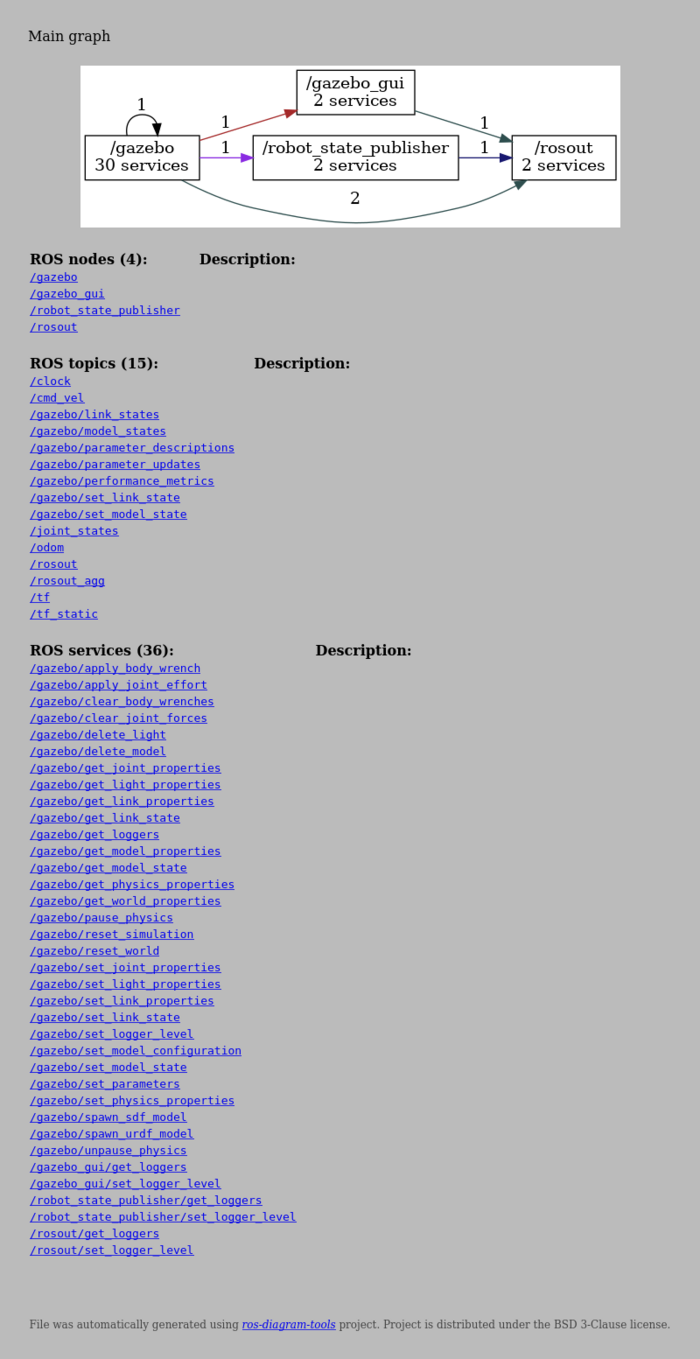
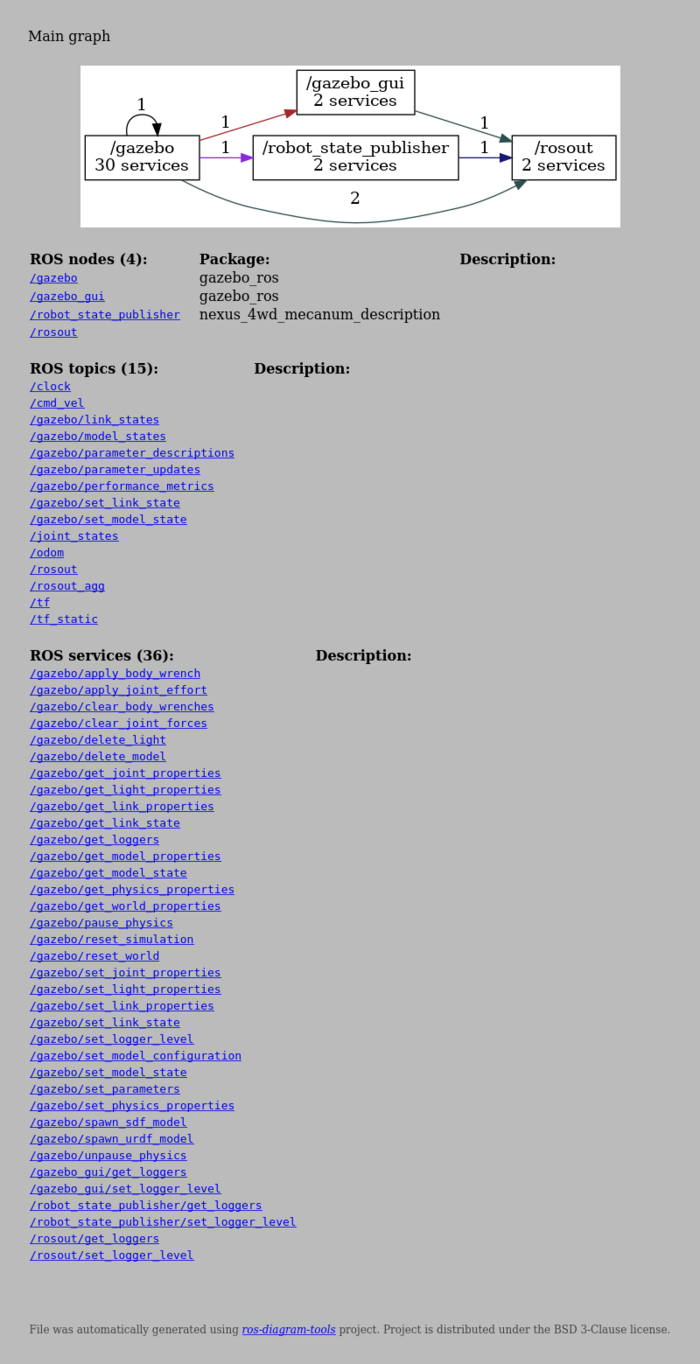
Add package name info to nodes main page

diff --git a/examples/mecanum_simulator/out/general/nodeview/full_graph.html b/examples/mecanum_simulator/out/general/nodeview/full_graph.html
@@ -65,22 +65,27 @@ Project is distributed under the BSD 3-Clause license.
         <table>
             <tr>
                 <th>ROS nodes (4):</th>
+                <th>Package:</th>
                 <th>Description:</th>
             </tr>
             <tr>
                 <td><a href="nodes/n__gazebo.html"><code>/gazebo</code></a></td>
+                <td>gazebo_ros</td>
                 <td></td>
             </tr>
             <tr>
                 <td><a href="nodes/n__gazebo_gui.html"><code>/gazebo_gui</code></a></td>
+                <td>gazebo_ros</td>
                 <td></td>
             </tr>
             <tr>
                 <td><a href="nodes/n__robot_state_publisher.html"><code>/robot_state_publisher</code></a></td>
+                <td>nexus_4wd_mecanum_description</td>
                 <td></td>
             </tr>
             <tr>
                 <td><a href="nodes/n__rosout.html"><code>/rosout</code></a></td>
+                <td></td>
                 <td></td>
             </tr>
         </table>

diff --git a/examples/simple/rosnodelist/out/full_graph.html b/examples/simple/rosnodelist/out/full_graph.html
@@ -68,18 +68,22 @@ Project is distributed under the BSD 3-Clause license.
         <table>
             <tr>
                 <th>ROS nodes (3):</th>
+                <th>Package:</th>
                 <th>Description:</th>
             </tr>
             <tr>
                 <td><a href="nodes/n__node1.html"><code>/node1</code></a></td>
                 <td></td>
+                <td></td>
             </tr>
             <tr>
                 <td><a href="nodes/n__node2.html"><code>/node2</code></a></td>
+                <td></td>
                 <td>description example</td>
             </tr>
             <tr>
                 <td><a href="nodes/n__topic5.html"><code>/topic5</code></a></td>
+                <td></td>
                 <td>other important node</td>
             </tr>
         </table>

diff --git a/examples/turtlesim/nodegraph/out/full_graph.html b/examples/turtlesim/nodegraph/out/full_graph.html
@@ -62,10 +62,12 @@ Project is distributed under the BSD 3-Clause license.
         <table>
             <tr>
                 <th>ROS nodes (1):</th>
+                <th>Package:</th>
                 <th>Description:</th>
             </tr>
             <tr>
                 <td><a href="nodes/n__turtlesim.html"><code>/turtlesim</code></a></td>
+                <td></td>
                 <td></td>
             </tr>
         </table>

diff --git a/src/rosdiagram/tool/rosnodegraph.py b/src/rosdiagram/tool/rosnodegraph.py
@@ -274,10 +274,10 @@ def generate_pages( nodes_dict, out_dir, nodes_labels=None, nodes_description=No
     services_desc = nodes_description.get( "service", None )
 
     ## generate main page
-    all_nodes, all_topics, all_services = split_to_groups( nodes_dict )
+    all_nodes, all_topics, all_services = split_to_groups( nodes_dict )     # get lists of identifiers
 
-    nodes_data_list    = convert_links_list( all_nodes, subpages_dict, OUTPUT_NODES_REL_DIR,
-                                             nodes_labels, nodes_description=nodes_desc )
+    nodes_data_list    = convert_nodes_links_list( all_nodes, subpages_dict, OUTPUT_NODES_REL_DIR,
+                                                   nodes_labels, nodes_description=nodes_desc )
     topics_data_list   = convert_links_list( all_topics, subpages_dict, OUTPUT_NODES_REL_DIR,
                                              nodes_labels, nodes_description=topics_desc )
     services_data_list = convert_links_list( all_services, subpages_dict, OUTPUT_NODES_REL_DIR,
@@ -381,6 +381,27 @@ def generate_subpages( sub_output_dir, nodes_dict,                              
             generate_from_template( sub_output_dir, item_dict, template_name=template )
 
     return subpages_dict
+
+
+def convert_nodes_links_list( items_lists, sub_items_dict, link_subdir, labels_dict=None, nodes_description=None ):
+    if labels_dict is None:
+        labels_dict = {}
+    if nodes_description is None:
+        nodes_description = {}
+    converted_list = []
+    for item_id in items_lists:
+        label = labels_dict.get( item_id, item_id )
+        description = nodes_description.get( label, None )
+        item_data = sub_items_dict.get( item_id, {} )
+        is_subpage = True if item_data else False
+        item_link = prepare_item_link( item_id, label, is_subpage, link_subdir )
+        if item_data:
+            pkg_name = item_data.get("pkg_name", "")
+            item_link = ( *item_link, pkg_name )
+        if description:
+            item_link = ( *item_link, description )
+        converted_list.append( item_link )
+    return converted_list
 
 
 def get_topic_subpages( topics_subpages_dict, nodes_dict, topics_dict, msgs_dump_dir ):
